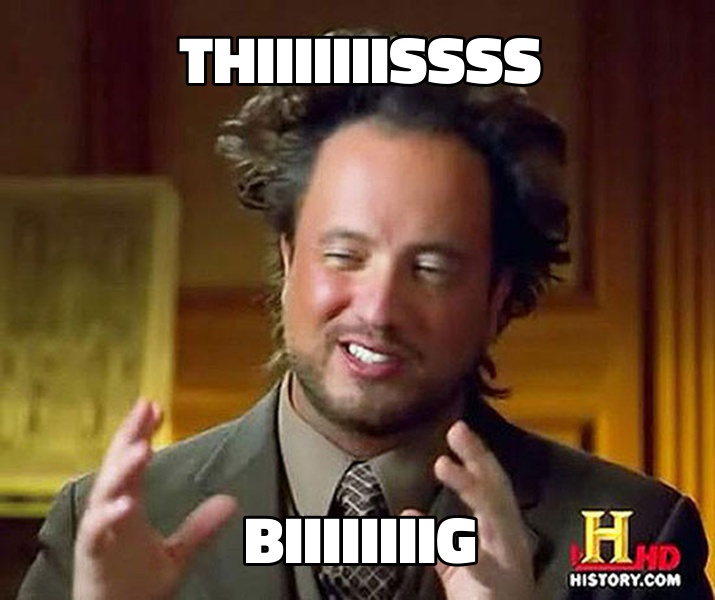
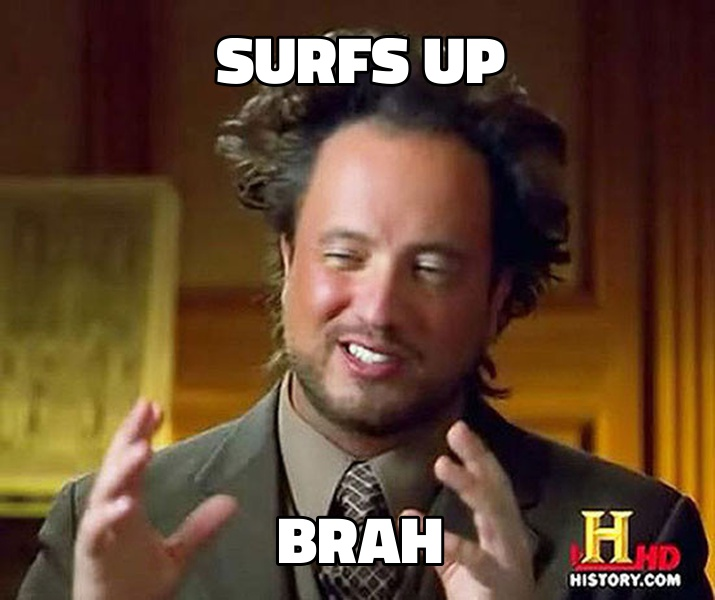
Server working, images loading while server running

Changed region(s): [[0.2462, 0.06, 0.7692, 0.15], [0.3385, 0.84, 0.6769, 0.96]]

diff --git a/public/index.html b/public/index.html
@@ -10,34 +10,34 @@
     <main>
       <ul>
         <li>
-          <a id="meme1" href="aag.jpg" target="_blank">Meme-1</a>
+          <a href="/aag.jpg" target="_blank">Meme-1</a>
         </li>
         <li>
-          <a href="">Meme-2</a>
+          <a href="afraid.jpg" target="_blank">Meme-2</a>
         </li>
         <li>
-          <a href="">Meme-3</a>
+          <a href="apcr.jpg" target="_blank">Meme-3</a>
         </li>
         <li>
-          <a href="">Meme-4</a>
+          <a href="atis.jpg" target="_blank">Meme-4</a>
         </li>
         <li>
-          <a href="">Meme-5</a>
+          <a href="bender.jpg" target="_blank">Meme-5</a>
         </li>
         <li>
-          <a href="">Meme-6</a>
+          <a href="biw.jpg" target="_blank">Meme-6</a>
         </li>
         <li>
-          <a href="">Meme-7</a>
+          <a href="older.jpg" target="_blank">Meme-7</a>
         </li>
         <li>
-          <a href="">Meme-8</a>
+          <a href="stew.jpg" target="_blank">Meme-8</a>
         </li>
         <li>
-          <a href="">Meme-9</a>
+          <a href="tenguy.jpg" target="_blank">Meme-9</a>
         </li>
         <li>
-          <a href="">Meme-10</a>
+          <a href="tried.jpg" target="_blank">Meme-10</a>
         </li>
       </ul>
     </main>

diff --git a/public/index.js b/public/index.js
@@ -23,15 +23,15 @@ const websiteMemeTexts = [
 
 const myMemeTexts = [
   `This_is_Bobby/he_does_drugs`,
-  `This_morning_I_woke_up/and_crapped_my_pants`,
-  `Yes/that_goat_is_my_wife`,
-  `One_day/a_starship_will_kill_me`,
-  `Thiiiiiiissss/Biiiiiiiig`,
-  `Reagan/sucks`,
+  `This_morning_I_woke_up/and_pooped_my_pants`,
+  `goat/life`,
+  `I_got_a_promotion/cause_my_boss_choked`,
+  `surfs_up/brah`,
+  `These_are_old_men/they_drink_whiskey`,
   `Imma_eat/you`,
-  `I_found_the/POPPIES`,
-  `Baby,_you_just_blue_yourself`,
-  'Your_future/husband',
+  `I_am_hungry`,
+  `Baby,_burger_king_is_the_best`,
+  'Your_future/friend',
 ];
 
 axios
@@ -96,13 +96,13 @@ async function download(concatArray) {
   for (let i = 0; i < concatArray.length; i++) {
     const response = await fetch(concatArray[i]);
     const buffer = await response.buffer();
-    fs.writeFile(`./${newFileName}/${nameArray[i]}.jpg`, buffer, () => {
+    /*fs.writeFile(`./${newFileName}/${nameArray[i]}.jpg`, buffer, () => {
       if (i < 9) {
         console.log('Downloading...');
       } else if (i === 9) {
         console.log('Finished!');
       }
-    });
+    });*/
     fs.writeFile(`./public/memes/${nameArray[i]}.jpg`, buffer, () => {
       if (i < 9) {
         console.log('Downloading...');

diff --git a/server/server.js b/server/server.js
@@ -2,14 +2,16 @@ const express = require('express');
 const app = express();
 const path = require('path');
 const router = express.Router();
+const port = 8001;
 
-const url = '/Users/jamessheppard/Node.js-Meme-Scraper-UpLeveled-2020/public/';
-router.get(`${url}`, function (req, res) {
-  res.sendFile('index.html');
+router.get(`/`, function (req, res) {
+  res.sendFile('./public/index.html', {
+    root: '/Users/jamessheppard/Node.js-Meme-Scraper-UpLeveled-2020',
+  });
 });
 
-app.use('/', router);
+app.use(express.static('./public/memes'));
 
-const localHost = 8001;
-app.listen(process.env.port || `${localHost}`);
-console.log(`Server is running at localhost:${localHost}.`);
+app.use('/', router);
+app.listen(process.env.port || `${port}`);
+console.log(`Server is running at localhost:${port}.`);
